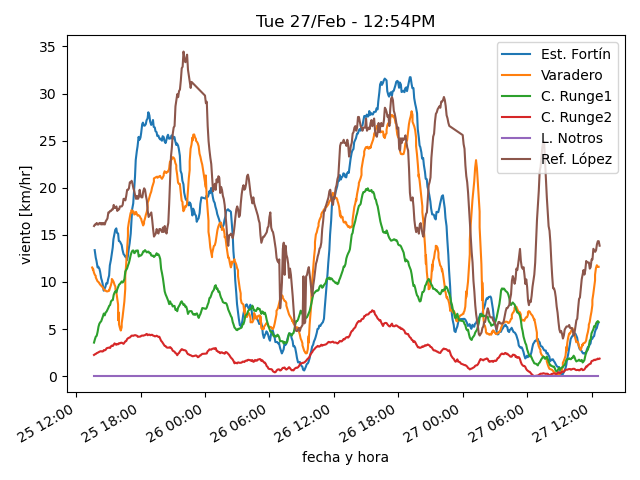
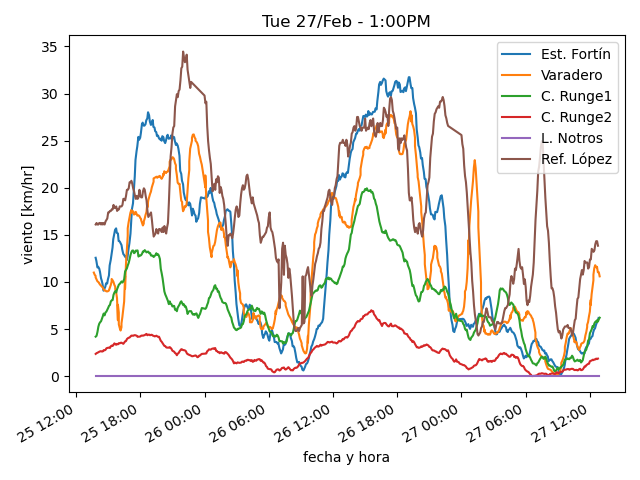
actualiza datos

diff --git a/estaciones/estacion1.html b/estaciones/estacion1.html
@@ -18,32 +18,32 @@
     </tr>
     <tr>
      <td class="stats_data">
-      12:38PM
+      12:48PM
      </td>
     </tr>
     <tr>
      <td class="stats_data">
-      16.7
+      16.4
      </td>
     </tr>
     <tr>
      <td class="stats_data">
-      9.1
+      9.7
      </td>
     </tr>
     <tr>
      <td class="stats_data">
-      61.0
+      64.0
      </td>
     </tr>
     <tr>
      <td class="stats_data">
-      1012.53
+      1012.19
      </td>
     </tr>
     <tr>
      <td class="stats_data">
-      3.1/7.2 S
+      3.2/8.0 S
      </td>
     </tr>
     <tr>
@@ -53,12 +53,12 @@
     </tr>
     <tr>
      <td class="stats_data">
-      2.4
+      2.6
      </td>
     </tr>
     <tr>
      <td class="stats_data">
-      255.0
+      274.0
      </td>
     </tr>
    </tbody>

diff --git a/estaciones/estacion2.html b/estaciones/estacion2.html
@@ -18,32 +18,32 @@
     </tr>
     <tr>
      <td class="stats_data">
-      12:39PM
+      12:54PM
      </td>
     </tr>
     <tr>
      <td class="stats_data">
-      15.7
+      16.4
      </td>
     </tr>
     <tr>
      <td class="stats_data">
-      10.6
+      10.7
      </td>
     </tr>
     <tr>
      <td class="stats_data">
-      71.8
+      68.8
      </td>
     </tr>
     <tr>
      <td class="stats_data">
-      1009.92
+      1009.82
      </td>
     </tr>
     <tr>
      <td class="stats_data">
-      7.8/9.9 NW
+      7.7/10.1 WNW
      </td>
     </tr>
     <tr>
@@ -58,7 +58,7 @@
     </tr>
     <tr>
      <td class="stats_data">
-      250.7
+      239.4
      </td>
     </tr>
    </tbody>

diff --git a/estaciones/estacion3.html b/estaciones/estacion3.html
@@ -18,32 +18,32 @@
     </tr>
     <tr>
      <td class="stats_data">
-      12:39PM
+      12:54PM
      </td>
     </tr>
     <tr>
      <td class="stats_data">
-      14.8
+      14.7
      </td>
     </tr>
     <tr>
      <td class="stats_data">
-      10.4
+      10.0
      </td>
     </tr>
     <tr>
      <td class="stats_data">
-      75.4
+      73.4
      </td>
     </tr>
     <tr>
      <td class="stats_data">
-      1005.93
+      1005.72
      </td>
     </tr>
     <tr>
      <td class="stats_data">
-      4.0/6.0 WNW
+      4.0/5.9 W
      </td>
     </tr>
     <tr>
@@ -58,7 +58,7 @@
     </tr>
     <tr>
      <td class="stats_data">
-      229.9
+      228.5
      </td>
     </tr>
    </tbody>

diff --git a/estaciones/estacion5.html b/estaciones/estacion5.html
@@ -18,27 +18,27 @@
     </tr>
     <tr>
      <td class="stats_data">
-      12:35PM
+      12:50PM
      </td>
     </tr>
     <tr>
      <td class="stats_data">
-      16.3
+      16.8
      </td>
     </tr>
     <tr>
      <td class="stats_data">
-      9.6
+      9.5
      </td>
     </tr>
     <tr>
      <td class="stats_data">
-      64.0
+      62.0
      </td>
     </tr>
     <tr>
      <td class="stats_data">
-      1014.02
+      1013.82
      </td>
     </tr>
     <tr>
